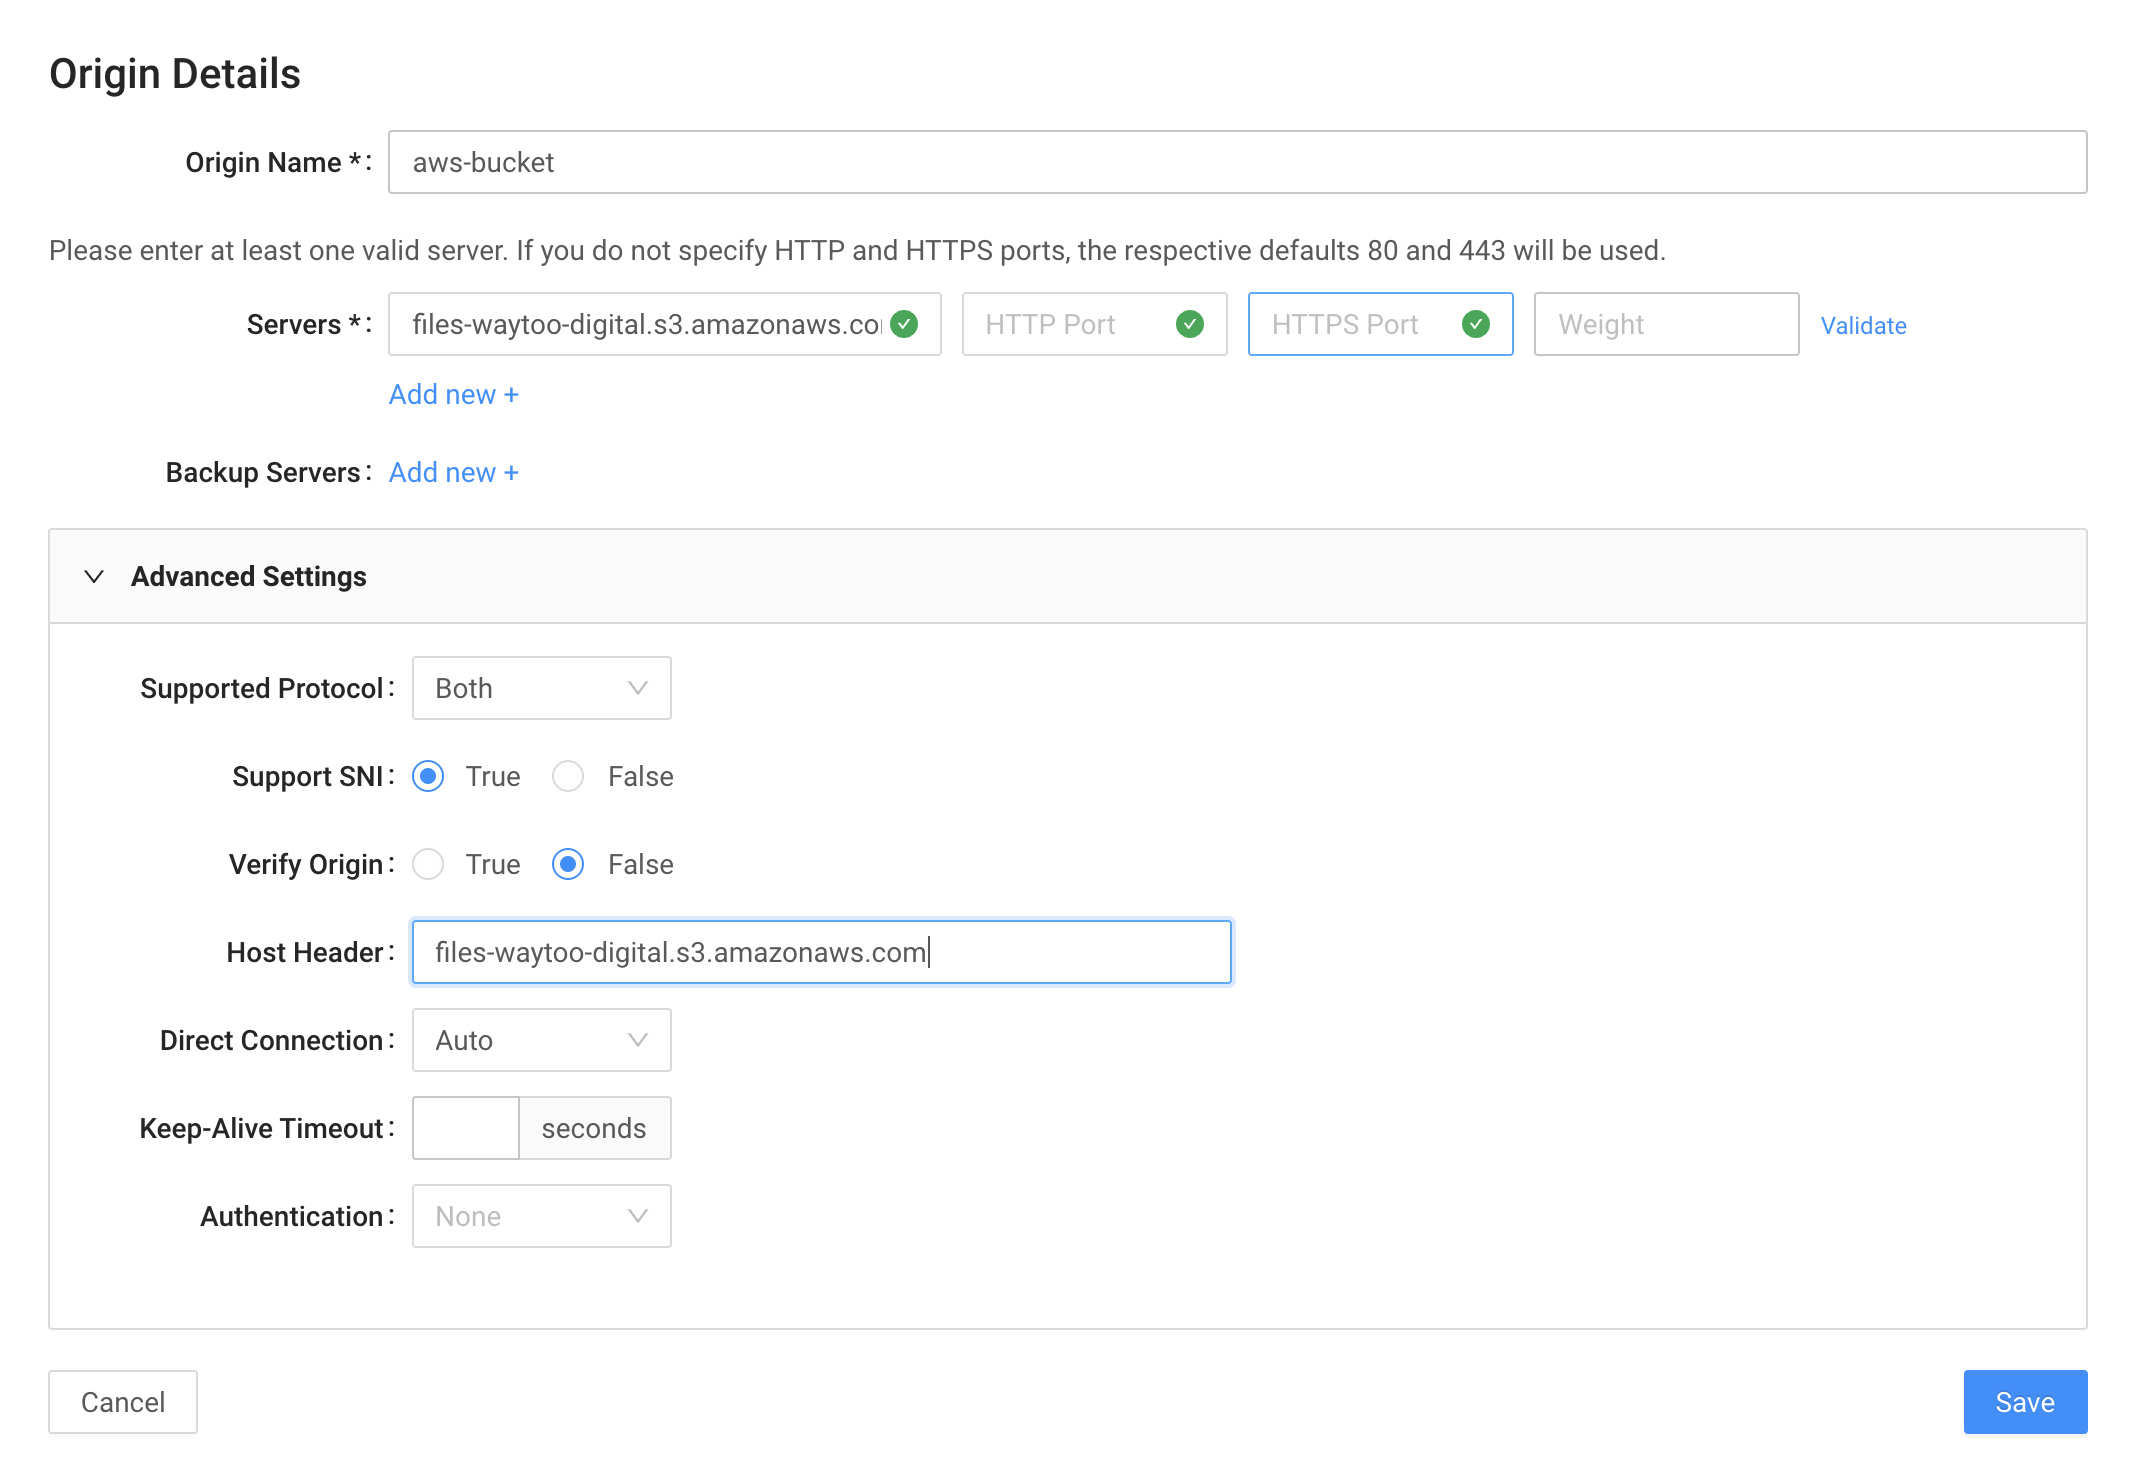
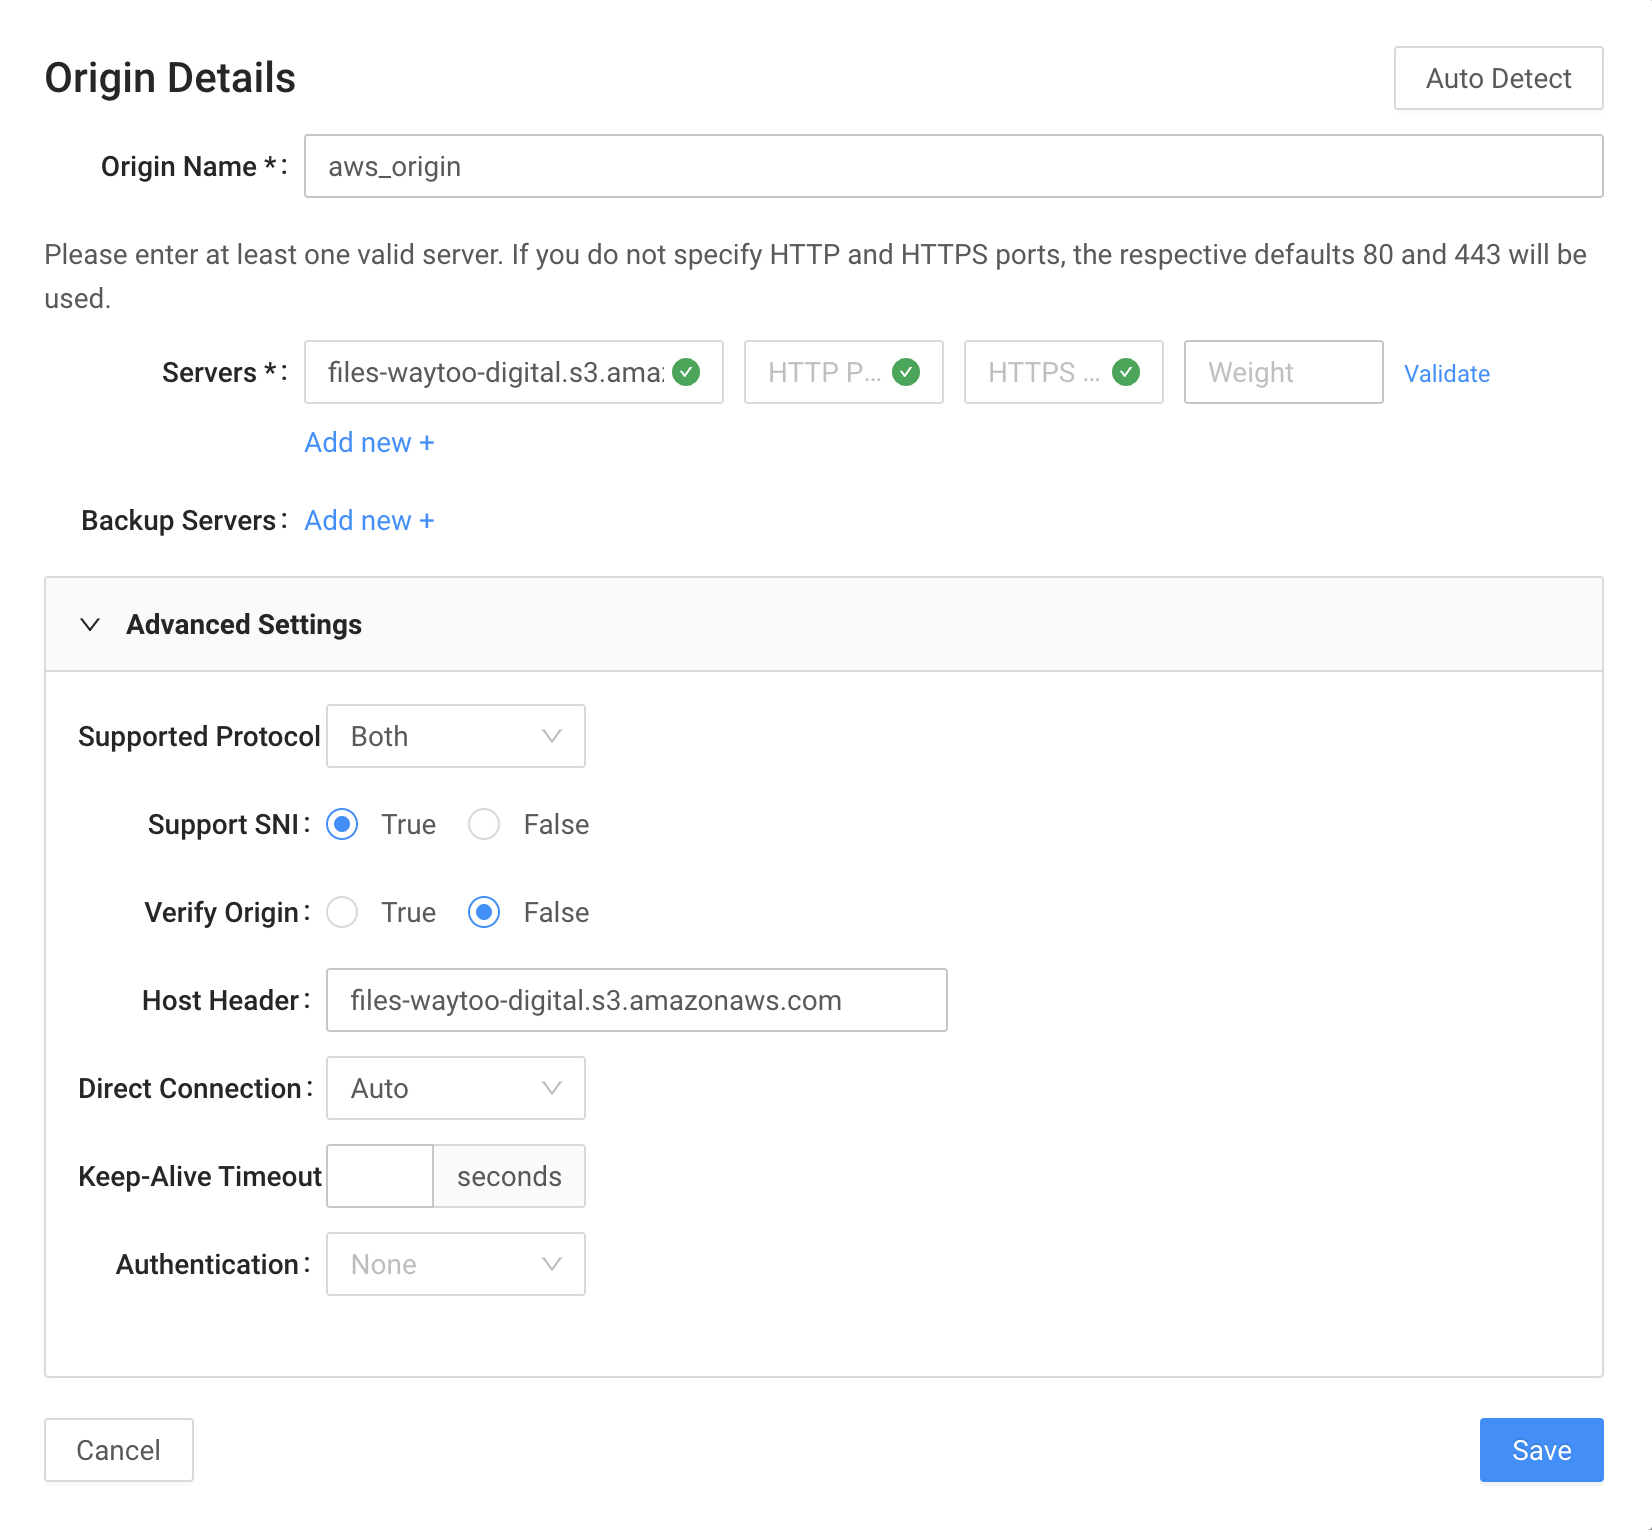
Fixed images and sizes

diff --git a/docs/recipes/aws-bucket.md b/docs/recipes/aws-bucket.md
@@ -6,21 +6,21 @@ Let’s assume we have a domain `waytoo.digital` and we would like to setup a bu
 
 Log in to the AWS S3 console and create a new bucket. It will show you the creation wizard:
 
-<p align=center><img src="/docs/resources/images/recipes/aws-bucket/create-bucket.png" alt="create bucket" width="600"></p>
+<p align=center><img src="/docs/resources/images/recipes/aws-bucket/create-bucket.png" alt="create bucket" width="720"></p>
 
 Enter Bucket Name(it should be qualified DNS prefix) - files-waytoo-digital in our case. Click Next. Skip "Configure Options".
 
-<p align=center><img src="/docs/resources/images/recipes/aws-bucket/create-bucket-set-permissions.png" alt="create bucket" width="600"></p>
+<p align=center><img src="/docs/resources/images/recipes/aws-bucket/create-bucket-set-permissions.png" alt="create bucket" width="720"></p>
 
 For now, use default `“Block all public access”` permissions, or AWS doesn’t give you to click next. Click Next and Save. Now we have bucket creaated.
 
 Assign appropriate permissions, so the content of a bucket can be accessed.
     
-<p align=center><img src="/docs/resources/images/recipes/aws-bucket/modify-bucket-settings-permissions.png" alt="create bucket" width="600"></p>
+<p align=center><img src="/docs/resources/images/recipes/aws-bucket/modify-bucket-settings-permissions.png" alt="create bucket" width="720"></p>
 
 Remove `"Block all public access"` checkbox and click save.
 
-<p align=center><img src="/docs/resources/images/recipes/aws-bucket/modify-bucket-settings-cors.png" alt="create bucket" width="600"></p>
+<p align=center><img src="/docs/resources/images/recipes/aws-bucket/modify-bucket-settings-cors.png" alt="create bucket" width="720"></p>
 
 Setup CORS. Just copy and paste code below:
 
@@ -38,11 +38,11 @@ Setup CORS. Just copy and paste code below:
 
 Upload a file to the bucket to test our setup and grant public read access to the uploaded object.
 
-<p align=center><img src="/docs/resources/images/recipes/aws-bucket/bucket-upload-file.png" alt="create bucket" width="600"></p>
+<p align=center><img src="/docs/resources/images/recipes/aws-bucket/bucket-upload-file.png" alt="create bucket" width="720"></p>
 
 Click on the uploaded file in bucket reveals the information we can use:
 
-<p align=center><img src="/docs/resources/images/recipes/aws-bucket/bucket-uploaded-file-info.png" alt="create bucket" width="400"></p>
+<p align=center><img src="/docs/resources/images/recipes/aws-bucket/bucket-uploaded-file-info.png" alt="create bucket" width="500"></p>
 
 Amazon S3 uses a convention for accessing the bucket names through URI: `<BUCKET_NAME>.<REGION>.amazonaws.com`. Currently, instead of the region, it returns us `s3`. Anyway, we just use the bucket domain name to setup the **CDN360**.
 <br/>
@@ -54,7 +54,7 @@ Login to CDN360 management console at https://console.cdnetworks.com
 #### Traffic Management 
 Create an Edge Hostname in **“Traffic Management”**
    
-<p align=center><img src="/docs/resources/images/recipes/aws-bucket/create-edge-hostname.png" alt="create bucket" width="600"></p>
+<p align=center><img src="/docs/resources/images/recipes/aws-bucket/create-edge-hostname.png" alt="create bucket" width="720"></p>
 
 After creating it, you can try it in terminal to make sure it works:
 
@@ -71,25 +71,25 @@ PING files-waytoo-digital.qtlcdn.com (14.0.119.186): 56 data bytes
 Create a Certificate in **“Certificates”**
 We are going to generate a certificate and sign it automatically with Let’s Encrypt
 
-<p align=center><img src="/docs/resources/images/recipes/aws-bucket/create-certificate.png" alt="create bucket" width="400"></p>
+<p align=center><img src="/docs/resources/images/recipes/aws-bucket/create-certificate.png" alt="create bucket" width="600"></p>
 
 It’s dramatically easy to do. On **"Auto Generate Certificate"** tab, fill the *Certificate name* and *Certificate description* fields. Set *Auto Renew* to *Let’s Encrypt*. Then provide the *Common name* and *SAN* values. We just use `files.waytoo.digital` in both cases. Then click *“Save certificate”* certificate will be saved.
 
 Deploy a Certificate to **Staging** environment
 When the certificate had been saved it is now possible to deploy it. We going to deploy it to staging to test our setup prior to put it to production.
 
-<p align=center><img src="/docs/resources/images/recipes/aws-bucket/deploy-to-staging.png" alt="create bucket" width="400"></p>
+<p align=center><img src="/docs/resources/images/recipes/aws-bucket/deploy-to-staging.png" alt="create bucket" width="500"></p>
 
 #### Edge Configurations
 8. Create a Property in **“Edge Configurations”**. 
 
-<p align=center><img src="/docs/resources/images/recipes/aws-bucket/create-property.png" alt="create bucket" width="600"></p>
+<p align=center><img src="/docs/resources/images/recipes/aws-bucket/create-property.png" alt="create bucket" width="720"></p>
 
 We should fill in the *Property Name*, optionally a *Description* for the property, and the *Description* of the configuration version. Also, *Hostnames* field require at least one hostname entered. This is how the cache will identify and handle requests with property configuration.
     
 Then we should add origin(our S3 bucket):
 
-<p align=center><img src="/docs/resources/images/recipes/aws-bucket/create-property-origin.png" alt="create bucket" width="600"></p>
+<p align=center><img src="/docs/resources/images/recipes/aws-bucket/create-property-origin.png" alt="create bucket" width="720"></p>
 
 *Origin name* will be used in edge-logic script, in our case it's called `aws_origin`, we also should add out S3 bucket domain(`files-waytoo-digital.s3.amazonaws.com`) to *Servers* field and click validate to check if everything is ok.
 
@@ -97,7 +97,7 @@ In advanced settings we should fill the *Host Header* with the origin hostname -
 
 We have created an origin. Next, we should create an initial edge-logic configuration. Click Wizard button:
 
-<p align=center><img src="/docs/resources/images/recipes/aws-bucket/create-property-wizard.png" alt="create bucket" width="400"></p>
+<p align=center><img src="/docs/resources/images/recipes/aws-bucket/create-property-wizard.png" alt="create bucket" width="600"></p>
 
 We just selecte previously configured origin, set cache time to 3600 minutes and ignore cache-control headers from origin to handle cache behavior on the edge. Click **"OK"**. Edge-logic script will be generated:
 
@@ -119,7 +119,7 @@ Deploy a Property to Staging.
 
 If no issues occurred during the “Validate & Save” - congratulations. Now we can deploy property and test our Staging deployment.
 
-<p align=center><img src="/docs/resources/images/recipes/aws-bucket/deploy-to-staging.png" alt="create bucket" width="400"></p>
+<p align=center><img src="/docs/resources/images/recipes/aws-bucket/deploy-to-staging.png" alt="create bucket" width="500"></p>
 
 #### Testing(Staging) 
 
@@ -180,7 +180,7 @@ Everything works as expected, so let's deploy everything to production.
 
 To deploy configuration to production, we should do it both in **"Certificates"** and **"Edge Configurations"**. Navigate to **"Certificates"** first, select certificate, set *Deployment destination* to *Production* and click **"Deploy Configuration"**.
 
-<p align=center><img src="/docs/resources/images/recipes/aws-bucket/deploy-to-production.png" alt="create bucket" width="400"></p>
+<p align=center><img src="/docs/resources/images/recipes/aws-bucket/deploy-to-production.png" alt="create bucket" width="500"></p>
 
 Then navigate to **"Edge Configurations"** and do the same with your property. 
 
